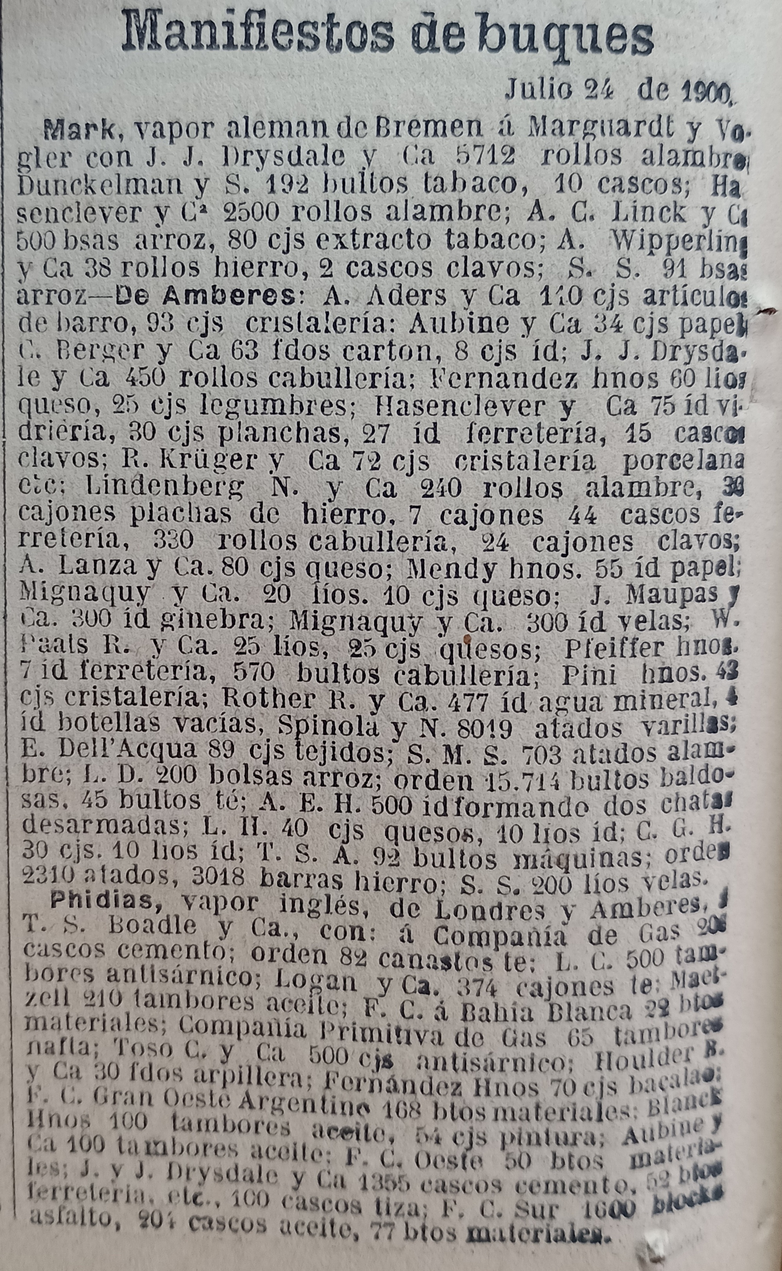
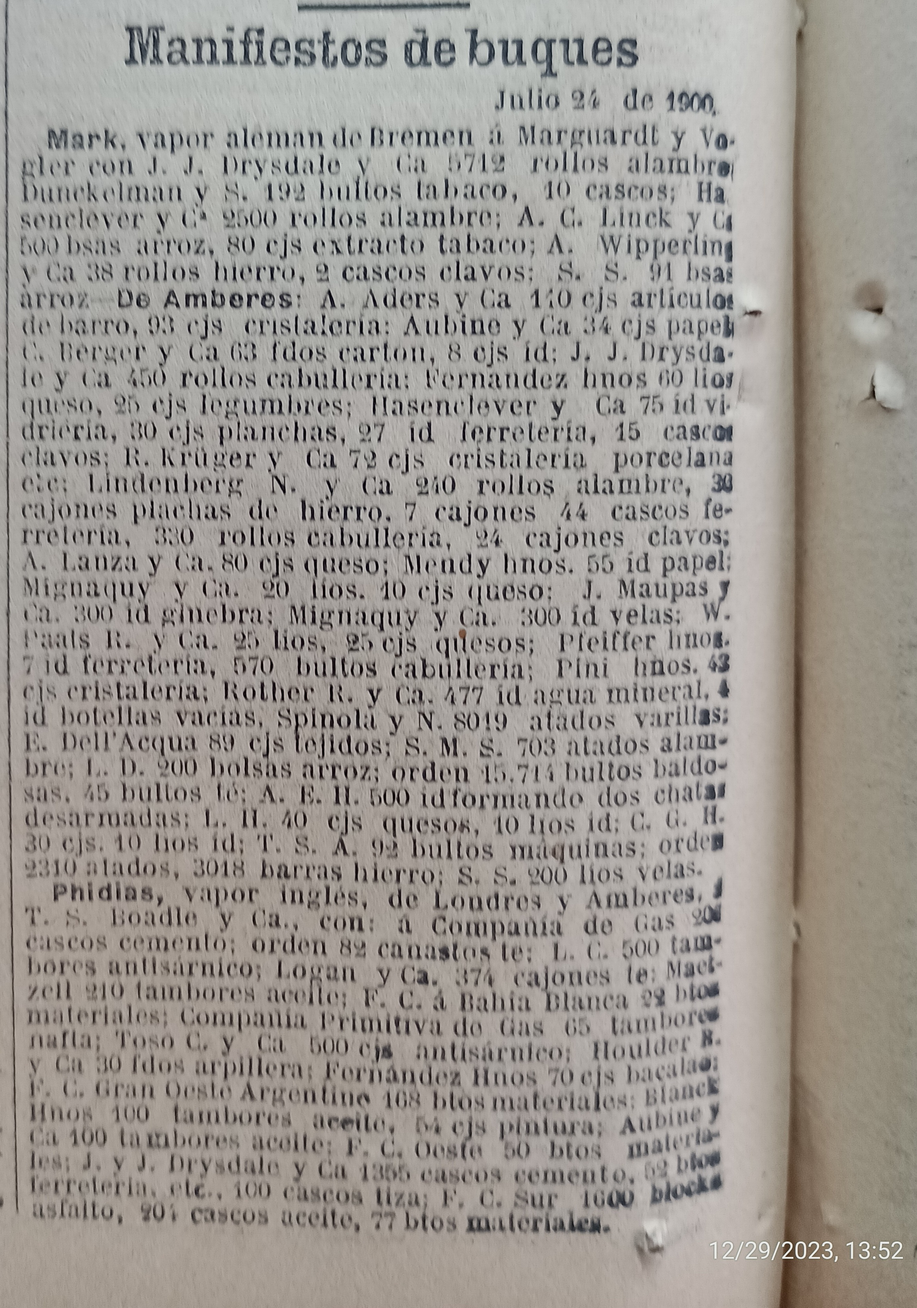
Actualización

diff --git a/page_dewarp_custom.py b/page_dewarp_custom.py
@@ -52,9 +52,9 @@ RVEC_IDX = slice(0, 3)   # índice de rvec en el vector de parámetros
 TVEC_IDX = slice(3, 6)   # índice de tvec en el vector de parámetros
 CUBIC_IDX = slice(6, 8)  # índice de pendientes cúbicas en el vector de parámetros
 
-SPAN_MIN_WIDTH = 45      # ancho mínimo en píxeles reducidos para la extensión
-SPAN_PX_PER_STEP = 30    # espaciado en píxeles reducidos para muestreo a lo largo de las extensiones
-FOCAL_LENGTH = 1.0       # longitud focal normalizada de la cámara
+SPAN_MIN_WIDTH = 120      # ancho mínimo en píxeles reducidos para la extensión
+SPAN_PX_PER_STEP = 80    # espaciado en píxeles reducidos para muestreo a lo largo de las extensiones
+FOCAL_LENGTH = 0.4       # longitud focal normalizada de la cámara
 
 DEBUG_LEVEL = 0          # 0=ninguno, 1=algunos, 2=mucho, 3=todo
 DEBUG_OUTPUT = 'file'    # archivo, pantalla, ambos

diff --git a/README.md b/README.md
@@ -15,4 +15,5 @@ Uso:
 
 Ejemplo:
 
-    python page_dewarp_custom.py img_in/manifiesto.jpg
+    python page_dewarp_custom.py img_in/manifiesto_1900_07_03.jpg img_in/manifiesto_1900_07_05.jpg  img_in/manifiesto_1900_07_05_o.jpg img_in/manifiesto_1900_07_16.jpg img_in/manifiesto_1900_07_24.jpg img_in/manifiesto_1900_07_24_o.jpg img_in/manifiesto_1900_07_24_2.jpg img_in/entradas_1900_07_26.jpg img_in/entradas_1900_07_30.jpg
+    
